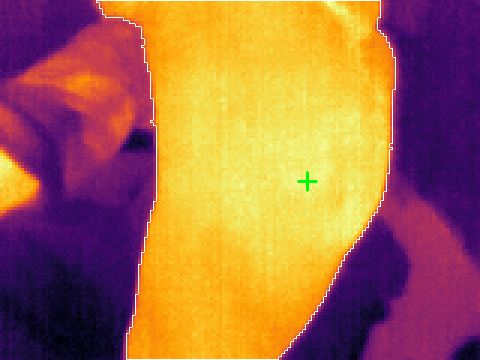
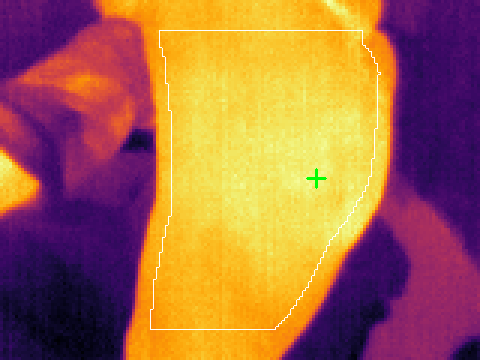
Sample tests: measure only inside the sole, add accuracy and precision
Every sample now has a valid thermal frame (chosen on the thermal frame only,
never on the model's answer). The warm spot is a small-area average inside the
sole; a warmest point at the picture edge is reported as no hot spot. Adds
precision, recall and F1 per grade and a plain reading under each sample.

diff --git a/sample-tests.html b/sample-tests.html
@@ -18,6 +18,7 @@ td.diag{font-weight:700;background:var(--tint)}
 .bar{display:grid;grid-template-columns:62px 1fr 48px;align-items:center;gap:8px;font-size:13px;margin:3px 0}
 .bar i{display:block;height:10px;border-radius:5px;background:var(--brand)}
 .src{font-size:12px;color:var(--muted);margin:6px 0 0}
+.reading{background:var(--tint);border-radius:8px;padding:8px 10px;margin:8px 0 0;font-size:14px}
 .stats{display:grid;grid-template-columns:repeat(auto-fit,minmax(140px,1fr));gap:10px;margin:12px 0}
 .stat{background:var(--tint);border-radius:12px;padding:10px 12px}
 .stat b{display:block;font-size:24px;color:var(--brand)}
@@ -40,106 +41,124 @@ unseen test groups.</p>
 <div class="stats">
 <div class="stat"><b>106</b>unseen test pictures</div>
 <div class="stat"><b>54 %</b>matched the dataset grade</div>
-<div class="stat"><b>6 of 10</b>samples below matched</div>
+<div class="stat"><b>5 of 10</b>samples below matched</div>
 <div class="stat"><b>8</b>unseen patient groups</div></div>
 
 <h2>All 106 test pictures of this fold</h2>
-<div class="cmwrap"><table><tr><th>Rows: dataset grade<br>Columns: model output</th><th>class_0 (grade 0 pictures)</th><th>class_1 (grade 1 pictures)</th><th>class_2 (grade 2 pictures)</th><th>Matched</th></tr>
-<tr><th>Dataset grade 0</th><td class="diag">0</td><td class="">11</td><td class="">5</td><td><b>0 of 16</b> (0 %)</td></tr><tr><th>Dataset grade 1</th><td class="">4</td><td class="diag">15</td><td class="">3</td><td><b>15 of 22</b> (68 %)</td></tr><tr><th>Dataset grade 2</th><td class="">8</td><td class="">18</td><td class="diag">42</td><td><b>42 of 68</b> (62 %)</td></tr></table></div>
+<div class="cmwrap"><table><tr><th>Rows: dataset grade<br>Columns: model output</th><th>class_0 (grade 0 pictures)</th><th>class_1 (grade 1 pictures)</th><th>class_2 (grade 2 pictures)</th><th>Matched</th></tr><tr><th>Dataset grade 0</th><td class="diag">0</td><td class="">11</td><td class="">5</td><td><b>0 of 16</b> (0 %)</td></tr><tr><th>Dataset grade 1</th><td class="">4</td><td class="diag">15</td><td class="">3</td><td><b>15 of 22</b> (68 %)</td></tr><tr><th>Dataset grade 2</th><td class="">8</td><td class="">18</td><td class="diag">42</td><td><b>42 of 68</b> (62 %)</td></tr></table></div>
 <p>The highlighted cells are matches. Read each row: of the pictures with that grade, how many the model put in each
 class.</p>
+<h3>Accuracy and precision</h3>
+<div class="cmwrap"><table><tr><th></th><th>Precision</th><th>Recall</th><th>F1</th><th>Test pictures</th></tr><tr><th>Grade 0</th><td>0 %</td><td>0 %</td><td>0 %</td><td>16</td></tr><tr><th>Grade 1</th><td>34 %</td><td>68 %</td><td>45 %</td><td>22</td></tr><tr><th>Grade 2</th><td>84 %</td><td>62 %</td><td>71 %</td><td>68</td></tr></table></div>
+<ul class="defs">
+<li><b>Accuracy</b> (54 %): of all test pictures, the share the model matched.</li>
+<li><b>Precision</b>: when the model says "this looks like grade X", how often it is right.</li>
+<li><b>Recall</b>: of all the grade X pictures, how many the model found.</li>
+<li><b>F1</b>: precision and recall combined into one number (both must be high for F1 to be high).</li>
+</ul>
+
 
 <h2>The 10 samples</h2>
 <article class="sample miss">
 <h3>Sample 1 <span class="tag">Does not match</span></h3>
 <div class="pics"><figure><img src="samples/sample_01_rgb.jpg" alt="RGB picture, sample 1"><figcaption>RGB (Pi Camera)</figcaption></figure>
-<figure><img src="samples/sample_01_thermal.png" alt="Thermal frame, sample 1"><figcaption>Thermal (Lepton 3.5): white outline = foot, green + = hottest spot</figcaption></figure></div>
+<figure><img src="samples/sample_01_thermal.png" alt="Thermal frame, sample 1"><figcaption>Thermal (Lepton 3.5): white outline = area of the sole measured, green + = warmest spot (5 × 5 pixel average)</figcaption></figure></div>
 <table class="res"><tr><td>Grade given by the dataset's experts</td><td><b>Grade 1</b></td></tr>
 <tr><td>Model output</td><td><b>class_2</b> (the class trained on grade 2 pictures), confidence 65 %</td></tr>
-<tr><td>Foot mean</td><td>37.6 °C</td></tr><tr><td>Foot highest</td><td>40.6 °C</td></tr><tr><td>Hottest spot above foot mean</td><td>3.0 °C</td></tr></table>
+<tr><td>Sole average temperature</td><td>37.6 °C</td></tr><tr><td>Warm spot</td><td>none inside the sole (warmest at the picture edge, where the foot continues out of view)</td></tr></table>
 <div class="probs"><div class="bar"><span>class_0</span><i style="width:1%"></i><b>1 %</b></div><div class="bar"><span>class_1</span><i style="width:34%"></i><b>34 %</b></div><div class="bar"><span>class_2</span><i style="width:65%"></i><b>65 %</b></div></div>
+<p class="reading"><b>Reading:</b> The model put this grade 1 foot with its grade 2 pictures. The foot gets warmer toward the edge of the picture, where it continues out of view; there is no separate hot spot inside the sole.</p>
 <p class="src">File 2024-05-17_03-09-14pic_cam.jpg · test group public_v1-g00033</p></article>
 <article class="sample ok">
 <h3>Sample 2 <span class="tag">Matches the dataset grade</span></h3>
 <div class="pics"><figure><img src="samples/sample_02_rgb.jpg" alt="RGB picture, sample 2"><figcaption>RGB (Pi Camera)</figcaption></figure>
-<figure><img src="samples/sample_02_thermal.png" alt="Thermal frame, sample 2"><figcaption>Thermal (Lepton 3.5): white outline = foot, green + = hottest spot</figcaption></figure></div>
+<figure><img src="samples/sample_02_thermal.png" alt="Thermal frame, sample 2"><figcaption>Thermal (Lepton 3.5): white outline = area of the sole measured, green + = warmest spot (5 × 5 pixel average)</figcaption></figure></div>
 <table class="res"><tr><td>Grade given by the dataset's experts</td><td><b>Grade 2</b></td></tr>
 <tr><td>Model output</td><td><b>class_2</b> (the class trained on grade 2 pictures), confidence 97 %</td></tr>
-<tr><td>Foot mean</td><td>35.6 °C</td></tr><tr><td>Foot highest</td><td>36.4 °C</td></tr><tr><td>Hottest spot above foot mean</td><td>0.8 °C</td></tr></table>
+<tr><td>Sole average temperature</td><td>35.6 °C</td></tr><tr><td>Warm spot</td><td>0.6 °C above the sole average (36.2 °C)</td></tr></table>
 <div class="probs"><div class="bar"><span>class_0</span><i style="width:2%"></i><b>2 %</b></div><div class="bar"><span>class_1</span><i style="width:1%"></i><b>1 %</b></div><div class="bar"><span>class_2</span><i style="width:97%"></i><b>97 %</b></div></div>
+<p class="reading"><b>Reading:</b> The model matched the dataset grade (2) and was sure. The sole is evenly warm, with no distinct hot area.</p>
 <p class="src">File 2024-06-07_23-18-39pic_cam.jpg · test group public_v1-g00183</p></article>
 <article class="sample miss">
 <h3>Sample 3 <span class="tag">Does not match</span></h3>
 <div class="pics"><figure><img src="samples/sample_03_rgb.jpg" alt="RGB picture, sample 3"><figcaption>RGB (Pi Camera)</figcaption></figure>
-<figure><img src="samples/sample_03_thermal.png" alt="Thermal frame, sample 3"><figcaption>Thermal (Lepton 3.5): white outline = foot, green + = hottest spot</figcaption></figure></div>
+<figure><img src="samples/sample_03_thermal.png" alt="Thermal frame, sample 3"><figcaption>Thermal (Lepton 3.5): white outline = area of the sole measured, green + = warmest spot (5 × 5 pixel average)</figcaption></figure></div>
 <table class="res"><tr><td>Grade given by the dataset's experts</td><td><b>Grade 1</b></td></tr>
 <tr><td>Model output</td><td><b>class_0</b> (the class trained on grade 0 pictures), confidence 51 %</td></tr>
-<tr><td>Foot mean</td><td>37.1 °C</td></tr><tr><td>Foot highest</td><td>37.9 °C</td></tr><tr><td>Hottest spot above foot mean</td><td>0.8 °C</td></tr></table>
+<tr><td>Sole average temperature</td><td>37.2 °C</td></tr><tr><td>Warm spot</td><td>0.6 °C above the sole average (37.7 °C)</td></tr></table>
 <div class="probs"><div class="bar"><span>class_0</span><i style="width:51%"></i><b>51 %</b></div><div class="bar"><span>class_1</span><i style="width:25%"></i><b>25 %</b></div><div class="bar"><span>class_2</span><i style="width:23%"></i><b>23 %</b></div></div>
+<p class="reading"><b>Reading:</b> The model put this grade 1 foot with its grade 0 pictures, but it was unsure (close to a guess). The sole is evenly warm, with no distinct hot area.</p>
 <p class="src">File 2024-07-25_07-46-08pic_cam.jpg · test group public_v1-g00060</p></article>
 <article class="sample miss">
 <h3>Sample 4 <span class="tag">Does not match</span></h3>
 <div class="pics"><figure><img src="samples/sample_04_rgb.jpg" alt="RGB picture, sample 4"><figcaption>RGB (Pi Camera)</figcaption></figure>
-<figure><img src="samples/sample_04_thermal.png" alt="Thermal frame, sample 4"><figcaption>Thermal (Lepton 3.5): white outline = foot, green + = hottest spot</figcaption></figure></div>
+<figure><img src="samples/sample_04_thermal.png" alt="Thermal frame, sample 4"><figcaption>Thermal (Lepton 3.5): white outline = area of the sole measured, green + = warmest spot (5 × 5 pixel average)</figcaption></figure></div>
 <table class="res"><tr><td>Grade given by the dataset's experts</td><td><b>Grade 0</b></td></tr>
 <tr><td>Model output</td><td><b>class_1</b> (the class trained on grade 1 pictures), confidence 98 %</td></tr>
-<tr><td>Foot mean</td><td>32.0 °C</td></tr><tr><td>Foot highest</td><td>33.7 °C</td></tr><tr><td>Hottest spot above foot mean</td><td>1.6 °C</td></tr></table>
+<tr><td>Sole average temperature</td><td>32.1 °C</td></tr><tr><td>Warm spot</td><td>1.4 °C above the sole average (33.5 °C)</td></tr></table>
 <div class="probs"><div class="bar"><span>class_0</span><i style="width:1%"></i><b>1 %</b></div><div class="bar"><span>class_1</span><i style="width:98%"></i><b>98 %</b></div><div class="bar"><span>class_2</span><i style="width:2%"></i><b>2 %</b></div></div>
+<p class="reading"><b>Reading:</b> The model put this grade 0 foot with its grade 1 pictures and was sure. The sole has a mild warm area, 1.4 °C above its average.</p>
 <p class="src">File 2024-07-25_10-18-12pic_cam.jpg · test group public_v1-g00009</p></article>
 <article class="sample ok">
 <h3>Sample 5 <span class="tag">Matches the dataset grade</span></h3>
 <div class="pics"><figure><img src="samples/sample_05_rgb.jpg" alt="RGB picture, sample 5"><figcaption>RGB (Pi Camera)</figcaption></figure>
-<figure><div class="refused">Thermal frame refused</div><figcaption>Thermal (Lepton 3.5): white outline = foot, green + = hottest spot</figcaption></figure></div>
-<table class="res"><tr><td>Grade given by the dataset's experts</td><td><b>Grade 1</b></td></tr>
-<tr><td>Model output</td><td><b>class_1</b> (the class trained on grade 1 pictures), confidence 73 %</td></tr>
-<tr><td colspan="2">Thermal refused: values do not read as skin temperature. Not adjusted, not estimated.</td></tr></table>
-<div class="probs"><div class="bar"><span>class_0</span><i style="width:10%"></i><b>10 %</b></div><div class="bar"><span>class_1</span><i style="width:73%"></i><b>73 %</b></div><div class="bar"><span>class_2</span><i style="width:16%"></i><b>16 %</b></div></div>
-<p class="src">File 2024-07-25_21-55-36pic_cam.jpg · test group public_v1-g00116</p></article>
+<figure><img src="samples/sample_05_thermal.png" alt="Thermal frame, sample 5"><figcaption>Thermal (Lepton 3.5): white outline = area of the sole measured, green + = warmest spot (5 × 5 pixel average)</figcaption></figure></div>
+<table class="res"><tr><td>Grade given by the dataset's experts</td><td><b>Grade 2</b></td></tr>
+<tr><td>Model output</td><td><b>class_2</b> (the class trained on grade 2 pictures), confidence 95 %</td></tr>
+<tr><td>Sole average temperature</td><td>40.0 °C</td></tr><tr><td>Warm spot</td><td>2.0 °C above the sole average (42.0 °C)</td></tr></table>
+<div class="probs"><div class="bar"><span>class_0</span><i style="width:0%"></i><b>0 %</b></div><div class="bar"><span>class_1</span><i style="width:5%"></i><b>5 %</b></div><div class="bar"><span>class_2</span><i style="width:95%"></i><b>95 %</b></div></div>
+<p class="reading"><b>Reading:</b> The model matched the dataset grade (2) and was sure. The sole has a distinct warm area, 2.0 °C above its average.</p>
+<p class="src">File 2024-07-25_21-18-53pic_cam.jpg · test group public_v1-g00335</p></article>
 <article class="sample ok">
 <h3>Sample 6 <span class="tag">Matches the dataset grade</span></h3>
 <div class="pics"><figure><img src="samples/sample_06_rgb.jpg" alt="RGB picture, sample 6"><figcaption>RGB (Pi Camera)</figcaption></figure>
-<figure><img src="samples/sample_06_thermal.png" alt="Thermal frame, sample 6"><figcaption>Thermal (Lepton 3.5): white outline = foot, green + = hottest spot</figcaption></figure></div>
-<table class="res"><tr><td>Grade given by the dataset's experts</td><td><b>Grade 2</b></td></tr>
-<tr><td>Model output</td><td><b>class_2</b> (the class trained on grade 2 pictures), confidence 95 %</td></tr>
-<tr><td>Foot mean</td><td>39.8 °C</td></tr><tr><td>Foot highest</td><td>42.1 °C</td></tr><tr><td>Hottest spot above foot mean</td><td>2.4 °C</td></tr></table>
-<div class="probs"><div class="bar"><span>class_0</span><i style="width:0%"></i><b>0 %</b></div><div class="bar"><span>class_1</span><i style="width:5%"></i><b>5 %</b></div><div class="bar"><span>class_2</span><i style="width:95%"></i><b>95 %</b></div></div>
-<p class="src">File 2024-07-25_21-18-53pic_cam.jpg · test group public_v1-g00335</p></article>
-<article class="sample ok">
-<h3>Sample 7 <span class="tag">Matches the dataset grade</span></h3>
-<div class="pics"><figure><img src="samples/sample_07_rgb.jpg" alt="RGB picture, sample 7"><figcaption>RGB (Pi Camera)</figcaption></figure>
-<figure><img src="samples/sample_07_thermal.png" alt="Thermal frame, sample 7"><figcaption>Thermal (Lepton 3.5): white outline = foot, green + = hottest spot</figcaption></figure></div>
+<figure><img src="samples/sample_06_thermal.png" alt="Thermal frame, sample 6"><figcaption>Thermal (Lepton 3.5): white outline = area of the sole measured, green + = warmest spot (5 × 5 pixel average)</figcaption></figure></div>
 <table class="res"><tr><td>Grade given by the dataset's experts</td><td><b>Grade 1</b></td></tr>
 <tr><td>Model output</td><td><b>class_1</b> (the class trained on grade 1 pictures), confidence 98 %</td></tr>
-<tr><td>Foot mean</td><td>37.0 °C</td></tr><tr><td>Foot highest</td><td>39.8 °C</td></tr><tr><td>Hottest spot above foot mean</td><td>2.8 °C</td></tr></table>
+<tr><td>Sole average temperature</td><td>37.0 °C</td></tr><tr><td>Warm spot</td><td>none inside the sole (warmest at the picture edge, where the foot continues out of view)</td></tr></table>
 <div class="probs"><div class="bar"><span>class_0</span><i style="width:0%"></i><b>0 %</b></div><div class="bar"><span>class_1</span><i style="width:98%"></i><b>98 %</b></div><div class="bar"><span>class_2</span><i style="width:1%"></i><b>1 %</b></div></div>
+<p class="reading"><b>Reading:</b> The model matched the dataset grade (1) and was sure. The foot gets warmer toward the edge of the picture, where it continues out of view; there is no separate hot spot inside the sole.</p>
 <p class="src">File 2024-05-17_03-09-23pic_cam.jpg · test group public_v1-g00033</p></article>
+<article class="sample miss">
+<h3>Sample 7 <span class="tag">Does not match</span></h3>
+<div class="pics"><figure><img src="samples/sample_07_rgb.jpg" alt="RGB picture, sample 7"><figcaption>RGB (Pi Camera)</figcaption></figure>
+<figure><img src="samples/sample_07_thermal.png" alt="Thermal frame, sample 7"><figcaption>Thermal (Lepton 3.5): white outline = area of the sole measured, green + = warmest spot (5 × 5 pixel average)</figcaption></figure></div>
+<table class="res"><tr><td>Grade given by the dataset's experts</td><td><b>Grade 1</b></td></tr>
+<tr><td>Model output</td><td><b>class_0</b> (the class trained on grade 0 pictures), confidence 80 %</td></tr>
+<tr><td>Sole average temperature</td><td>37.2 °C</td></tr><tr><td>Warm spot</td><td>0.8 °C above the sole average (37.9 °C)</td></tr></table>
+<div class="probs"><div class="bar"><span>class_0</span><i style="width:80%"></i><b>80 %</b></div><div class="bar"><span>class_1</span><i style="width:12%"></i><b>12 %</b></div><div class="bar"><span>class_2</span><i style="width:8%"></i><b>8 %</b></div></div>
+<p class="reading"><b>Reading:</b> The model put this grade 1 foot with its grade 0 pictures. The sole is evenly warm, with no distinct hot area.</p>
+<p class="src">File 2024-07-25_07-46-14pic_cam.jpg · test group public_v1-g00060</p></article>
 <article class="sample ok">
 <h3>Sample 8 <span class="tag">Matches the dataset grade</span></h3>
 <div class="pics"><figure><img src="samples/sample_08_rgb.jpg" alt="RGB picture, sample 8"><figcaption>RGB (Pi Camera)</figcaption></figure>
-<figure><div class="refused">Thermal frame refused</div><figcaption>Thermal (Lepton 3.5): white outline = foot, green + = hottest spot</figcaption></figure></div>
+<figure><img src="samples/sample_08_thermal.png" alt="Thermal frame, sample 8"><figcaption>Thermal (Lepton 3.5): white outline = area of the sole measured, green + = warmest spot (5 × 5 pixel average)</figcaption></figure></div>
 <table class="res"><tr><td>Grade given by the dataset's experts</td><td><b>Grade 2</b></td></tr>
-<tr><td>Model output</td><td><b>class_2</b> (the class trained on grade 2 pictures), confidence 98 %</td></tr>
-<tr><td colspan="2">Thermal refused: values do not read as skin temperature. Not adjusted, not estimated.</td></tr></table>
-<div class="probs"><div class="bar"><span>class_0</span><i style="width:0%"></i><b>0 %</b></div><div class="bar"><span>class_1</span><i style="width:1%"></i><b>1 %</b></div><div class="bar"><span>class_2</span><i style="width:98%"></i><b>98 %</b></div></div>
-<p class="src">File 2024-07-25_22-17-40pic_cam.jpg · test group public_v1-g00342</p></article>
+<tr><td>Model output</td><td><b>class_2</b> (the class trained on grade 2 pictures), confidence 40 %</td></tr>
+<tr><td>Sole average temperature</td><td>34.3 °C</td></tr><tr><td>Warm spot</td><td>none inside the sole (warmest at the picture edge, where the foot continues out of view)</td></tr></table>
+<div class="probs"><div class="bar"><span>class_0</span><i style="width:24%"></i><b>24 %</b></div><div class="bar"><span>class_1</span><i style="width:36%"></i><b>36 %</b></div><div class="bar"><span>class_2</span><i style="width:40%"></i><b>40 %</b></div></div>
+<p class="reading"><b>Reading:</b> The model matched the dataset grade (2), but it was unsure (close to a guess). The foot gets warmer toward the edge of the picture, where it continues out of view; there is no separate hot spot inside the sole.</p>
+<p class="src">File 2024-06-07_23-18-40pic_cam.jpg · test group public_v1-g00183</p></article>
 <article class="sample miss">
 <h3>Sample 9 <span class="tag">Does not match</span></h3>
 <div class="pics"><figure><img src="samples/sample_09_rgb.jpg" alt="RGB picture, sample 9"><figcaption>RGB (Pi Camera)</figcaption></figure>
-<figure><img src="samples/sample_09_thermal.png" alt="Thermal frame, sample 9"><figcaption>Thermal (Lepton 3.5): white outline = foot, green + = hottest spot</figcaption></figure></div>
-<table class="res"><tr><td>Grade given by the dataset's experts</td><td><b>Grade 1</b></td></tr>
-<tr><td>Model output</td><td><b>class_0</b> (the class trained on grade 0 pictures), confidence 80 %</td></tr>
-<tr><td>Foot mean</td><td>37.1 °C</td></tr><tr><td>Foot highest</td><td>38.1 °C</td></tr><tr><td>Hottest spot above foot mean</td><td>1.1 °C</td></tr></table>
-<div class="probs"><div class="bar"><span>class_0</span><i style="width:80%"></i><b>80 %</b></div><div class="bar"><span>class_1</span><i style="width:12%"></i><b>12 %</b></div><div class="bar"><span>class_2</span><i style="width:8%"></i><b>8 %</b></div></div>
-<p class="src">File 2024-07-25_07-46-14pic_cam.jpg · test group public_v1-g00060</p></article>
+<figure><img src="samples/sample_09_thermal.png" alt="Thermal frame, sample 9"><figcaption>Thermal (Lepton 3.5): white outline = area of the sole measured, green + = warmest spot (5 × 5 pixel average)</figcaption></figure></div>
+<table class="res"><tr><td>Grade given by the dataset's experts</td><td><b>Grade 0</b></td></tr>
+<tr><td>Model output</td><td><b>class_1</b> (the class trained on grade 1 pictures), confidence 75 %</td></tr>
+<tr><td>Sole average temperature</td><td>33.0 °C</td></tr><tr><td>Warm spot</td><td>0.7 °C above the sole average (33.7 °C)</td></tr></table>
+<div class="probs"><div class="bar"><span>class_0</span><i style="width:5%"></i><b>5 %</b></div><div class="bar"><span>class_1</span><i style="width:75%"></i><b>75 %</b></div><div class="bar"><span>class_2</span><i style="width:20%"></i><b>20 %</b></div></div>
+<p class="reading"><b>Reading:</b> The model put this grade 0 foot with its grade 1 pictures. The sole is evenly warm, with no distinct hot area.</p>
+<p class="src">File 2024-07-25_10-18-40pic_cam.jpg · test group public_v1-g00009</p></article>
 <article class="sample ok">
 <h3>Sample 10 <span class="tag">Matches the dataset grade</span></h3>
 <div class="pics"><figure><img src="samples/sample_10_rgb.jpg" alt="RGB picture, sample 10"><figcaption>RGB (Pi Camera)</figcaption></figure>
-<figure><img src="samples/sample_10_thermal.png" alt="Thermal frame, sample 10"><figcaption>Thermal (Lepton 3.5): white outline = foot, green + = hottest spot</figcaption></figure></div>
+<figure><img src="samples/sample_10_thermal.png" alt="Thermal frame, sample 10"><figcaption>Thermal (Lepton 3.5): white outline = area of the sole measured, green + = warmest spot (5 × 5 pixel average)</figcaption></figure></div>
 <table class="res"><tr><td>Grade given by the dataset's experts</td><td><b>Grade 2</b></td></tr>
-<tr><td>Model output</td><td><b>class_2</b> (the class trained on grade 2 pictures), confidence 40 %</td></tr>
-<tr><td>Foot mean</td><td>34.3 °C</td></tr><tr><td>Foot highest</td><td>35.2 °C</td></tr><tr><td>Hottest spot above foot mean</td><td>0.9 °C</td></tr></table>
-<div class="probs"><div class="bar"><span>class_0</span><i style="width:24%"></i><b>24 %</b></div><div class="bar"><span>class_1</span><i style="width:36%"></i><b>36 %</b></div><div class="bar"><span>class_2</span><i style="width:40%"></i><b>40 %</b></div></div>
-<p class="src">File 2024-06-07_23-18-40pic_cam.jpg · test group public_v1-g00183</p></article>
+<tr><td>Model output</td><td><b>class_2</b> (the class trained on grade 2 pictures), confidence 92 %</td></tr>
+<tr><td>Sole average temperature</td><td>40.3 °C</td></tr><tr><td>Warm spot</td><td>1.8 °C above the sole average (42.1 °C)</td></tr></table>
+<div class="probs"><div class="bar"><span>class_0</span><i style="width:0%"></i><b>0 %</b></div><div class="bar"><span>class_1</span><i style="width:7%"></i><b>7 %</b></div><div class="bar"><span>class_2</span><i style="width:92%"></i><b>92 %</b></div></div>
+<p class="reading"><b>Reading:</b> The model matched the dataset grade (2) and was sure. The sole has a mild warm area, 1.8 °C above its average.</p>
+<p class="src">File 2024-07-25_21-18-50pic_cam.jpg · test group public_v1-g00335</p></article>
 
 
 <h2>What the results show</h2>
@@ -150,8 +169,11 @@ in each fold the model learns grade 0 from about 4 feet. That is too few, and it
 clinician-graded data is needed.</li>
 <li><b>Grade 1 is often confused with 0 and 2.</b> It sits between them and the visible differences are small.</li>
 <li><b>Thermal pictures show where the foot is warmest.</b> Temperatures are read from the dataset's raw Lepton values
-as centikelvin; that reading was not checked against a reference thermometer. Two frames did not read as skin
-temperature and were refused, not corrected.</li>
+as centikelvin; that reading was not checked against a reference thermometer. Only the inside of the sole is
+measured: the outline edge, the frame border and the leg or ankle running out of the picture are left out, and the
+warmest spot is a small-area average, not one pixel. Thermal frames that did not read as skin temperature were
+refused, never corrected, and the samples were taken only from frames that passed. That choice looks at the thermal
+frame only, never at the model's answer.</li>
 <li><b>The 2.2 °C left-right check is not shown here.</b> These pictures show one foot at a time. The station
 photographs both soles together and compares them region by region.</li>
 <li><b>These are honest numbers.</b> The paper reports 93 % with a split that can put frames of the same foot on both
